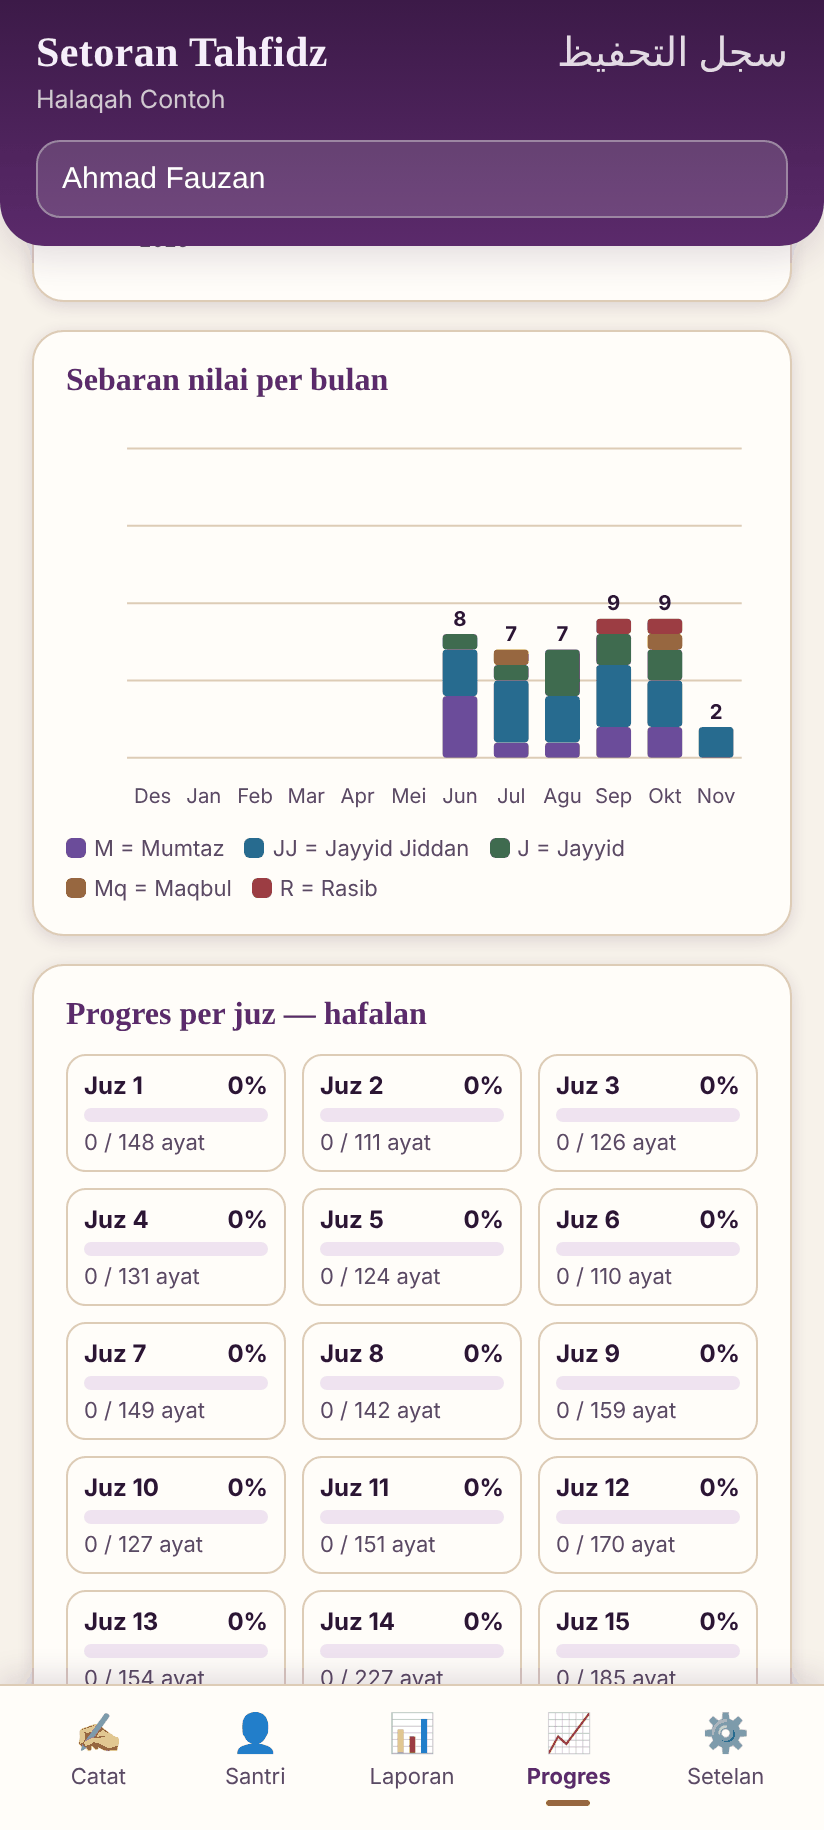
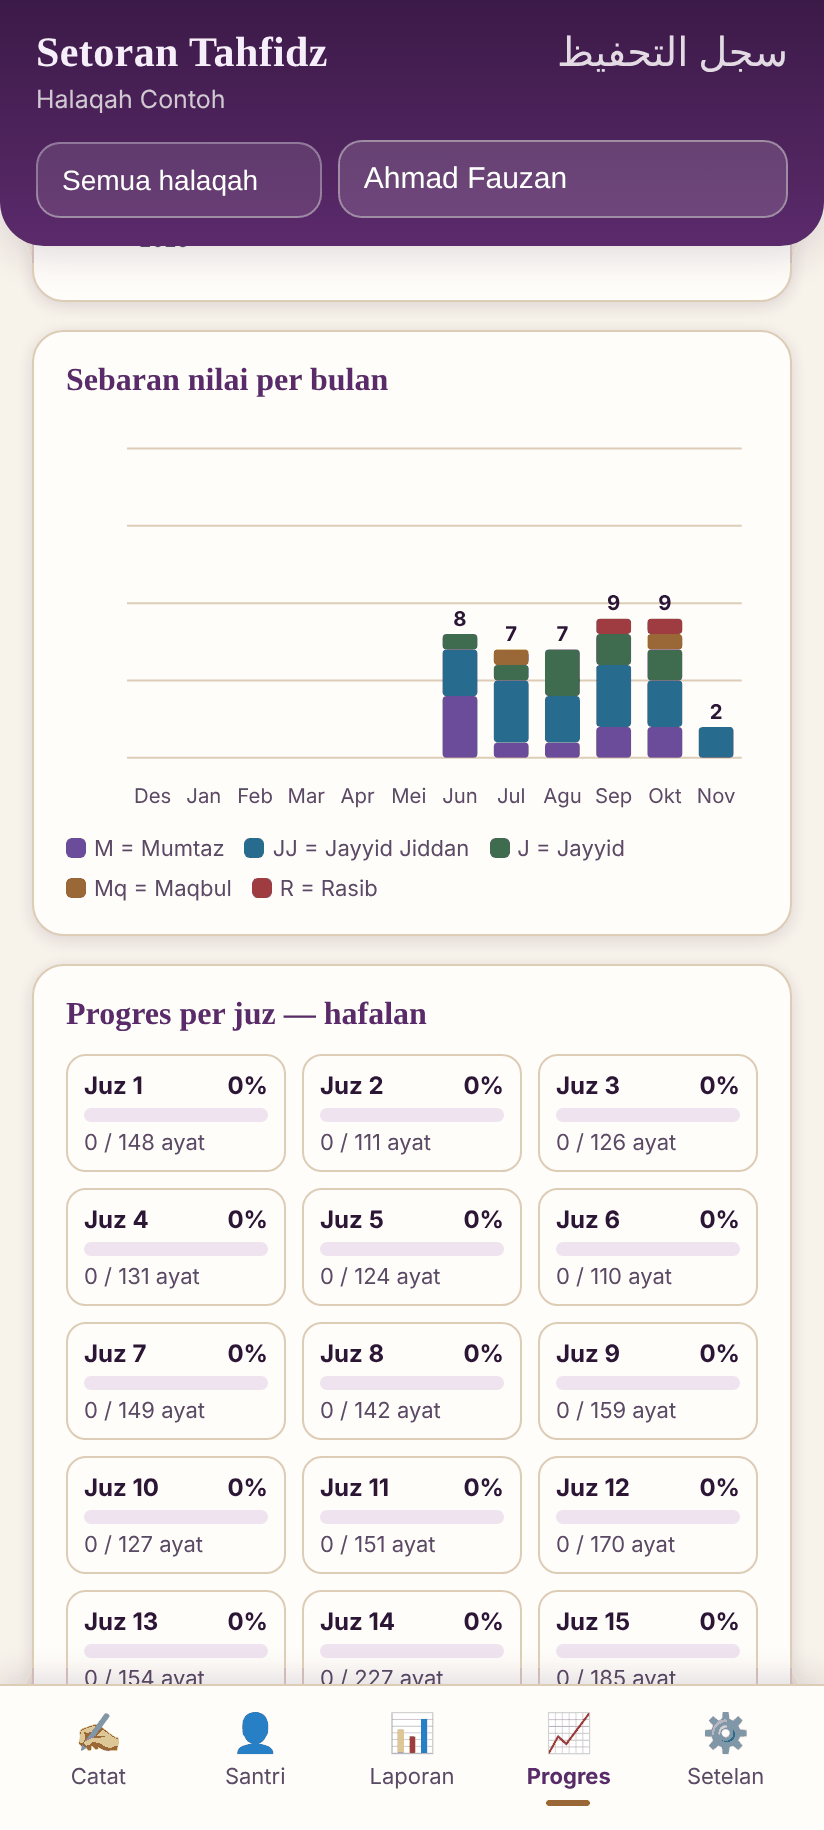
Versi 1.3.0 (130), README dan tangkapan layar diperbarui
Claude-Session: https://claude.ai/code/session_014gCVuLcPiL3Dco5abXn4Uk

Changed region(s): [[0.091, 0.0623, 0.3337, 0.1246], [0.4551, 0.0934, 0.6978, 0.1246], [0.3641, 0.0623, 0.4248, 0.1246]]

diff --git a/README.md b/README.md
@@ -19,7 +19,7 @@ Semua nama dan catatan pada gambar ini fiktif.
 
 | Santri | Setelan | Laporan bulanan (gambar) | Rapor progres (gambar) |
 | :---: | :---: | :---: | :---: |
-| <img src="docs/screenshots/santri.png" alt="Halaman Santri: daftar santri" width="200"> | <img src="docs/screenshots/setelan.png" alt="Halaman Setelan: tampilan, lembaga, dan laporan" width="200"> | <img src="docs/screenshots/laporan-gambar.png" alt="Contoh gambar laporan bulanan yang diunduh" width="230"> | <img src="docs/screenshots/rapor-progres.png" alt="Contoh rapor progres satu halaman yang diunduh" width="230"> |
+| <img src="docs/screenshots/santri.png" alt="Halaman Santri: daftar santri dikelompokkan per halaqah" width="200"> | <img src="docs/screenshots/setelan.png" alt="Halaman Setelan: tampilan, lembaga, dan laporan" width="200"> | <img src="docs/screenshots/laporan-gambar.png" alt="Contoh gambar laporan bulanan yang diunduh" width="230"> | <img src="docs/screenshots/rapor-progres.png" alt="Contoh rapor progres satu halaman yang diunduh" width="230"> |
 
 ## Fitur
 
@@ -54,13 +54,18 @@ Semua nama dan catatan pada gambar ini fiktif.
 - Bisa dilihat untuk Tahsin, Tahfidz, atau Murojaah.
 - **Unduh Progres** membuat rapor satu halaman untuk wali santri: total hafalan, perbandingan bulan ini dengan bulan lalu, kehadiran, diagram 6 bulan, peta 30 juz, hafalan terakhir, rekap nilai, dan catatan tahsin terakhir.
 
+**Kelompok halaqah**
+- Santri bisa diberi halaqah (mis. Pagi, Sore, Kelas A). Boleh dikosongkan.
+- Daftar santri dikelompokkan per halaqah, dan di bagian atas aplikasi ada pilihan halaqah untuk menyaring santri.
+- Nama halaqah ikut tercantum di laporan bulanan dan rapor progres.
+
 **Setelan dan data**
 - Mode terang, gelap, atau otomatis; lima warna tema; empat ukuran teks; halaman awal saat aplikasi dibuka.
 - Ekspor dan impor cadangan data (file JSON), plus pengingat cadangan berkala.
 
 ## Cara pakai singkat
 
-1. **Tab Santri:** tambahkan nama santri.
+1. **Tab Santri:** tambahkan nama santri, dan halaqahnya bila perlu. Ketuk ✏ untuk mengubah nama atau halaqah.
 2. **Tab Catat:** pilih santri dan tanggal, isi rentang ayat untuk tahsin, tahfidz, atau murojaah, beri nilai bila perlu, lalu ketuk **Simpan Setoran**.
 3. **Tab Laporan:** lihat rekap bulanan. Ketuk **Unduh Laporan (Gambar)** untuk membuat gambar laporan yang bisa dikirim ke wali santri.
 4. **Tab Progres:** pantau perkembangan hafalan tiap santri. Ketuk **Unduh Progres** untuk menyimpannya sebagai gambar.
@@ -87,7 +92,7 @@ Selengkapnya: [Kebijakan Privasi](PRIVACY_POLICY.md).
 
 - **Pemilik:** Abu Ja'far Putra Arsad, pengajar tahfidz Al-Qur'an
 - **Peran saya:** menentukan fitur dan menguji aplikasi ini. Kode ditulis dengan bantuan AI.
-- **Status:** uji coba. Tersedia sebagai APK debug dan belum dirilis ke Google Play.
+- **Status:** uji coba. Tersedia sebagai APK debug dan belum dirilis ke Google Play. Bahan rilis Play Store sudah disiapkan di [docs/PLAY_STORE.md](docs/PLAY_STORE.md).
 - **Lisensi:** [MIT](LICENSE)
 
 ---
@@ -105,9 +110,12 @@ aplikasi Android dengan [Capacitor](https://capacitorjs.com/).
 
 ```
 www/index.html           # Aplikasi web (HTML + CSS + JS dalam satu file)
-tests/                   # Tes logika rentang ayat, progres, dan nilai (npm test)
+tests/                   # Tes logika rentang ayat, progres, nilai, halaqah (npm test)
+tests/ui/                # Tes tampilan otomatis lewat Chrome/Edge (npm run test:ui)
 docs/screenshots/        # Tangkapan layar untuk README
 docs/PLAY_STORE.md       # Panduan rilis ke Google Play Store
+docs/play-store/         # Ikon, feature graphic, dan screenshot untuk listing Play Store
+docs/privacy-policy.html # Kebijakan privasi versi web (GitHub Pages)
 capacitor.config.json    # Konfigurasi Capacitor (appId, appName, webDir)
 android/                 # Proyek Android native
 assets-src/              # Sumber gambar ikon & splash (generate_icon.py)
@@ -133,10 +141,24 @@ npx serve www
 ### Tes
 
 ```powershell
-npm test
+npm test          # tes logika (cepat, tanpa browser)
+npm run test:ui   # tes tampilan: membuka aplikasi di Chrome/Edge dan memakainya seperti pengguna
 ```
 
-Jalankan sebelum setiap rilis. Semua tes harus lulus.
+Jalankan keduanya sebelum setiap rilis. Semua tes harus lulus.
+
+Tes tampilan tidak butuh paket tambahan. Ia mencari Chrome, Edge, atau
+Chromium yang terpasang (perlu Node.js 22 atau lebih baru), lalu mengetuk
+layar, mengisi rentang ayat, memberi nilai, mengunduh gambar laporan
+(termasuk mengecek nomor tanggalnya), dan menguji ekspor–impor. Bila
+browser tidak ditemukan, tunjukkan lokasinya:
+
+```powershell
+$env:CHROME_PATH = "C:\Program Files (x86)\Microsoft\Edge\Application\msedge.exe"
+npm run test:ui
+```
+
+Tambahkan `$env:SHOW = "1"` untuk melihat jendela browser saat tes berjalan.
 
 ### Membuat Debug APK
 
@@ -158,8 +180,10 @@ agar perubahannya disalin ke `android/app/src/main/assets/public`.
 
 ### Alur rilis
 
-1. Naikkan versi di `android/app/build.gradle`. Polanya: `versionName "1.2.0"` → `versionCode 120`.
-2. Jalankan `npm test`, lalu build APK seperti di atas.
+1. Naikkan versi di `android/app/build.gradle`. Polanya: `versionName "1.3.0"` → `versionCode 130`.
+2. Jalankan `npm test` dan `npm run test:ui`, lalu build APK seperti di atas
+   **di PC yang biasa dipakai**, supaya APK ditandatangani dengan
+   `debug.keystore` yang sama (lihat [release-signing/README.md](release-signing/README.md)).
 3. Buat GitHub Release dengan tag `vX.Y.Z-debug` dari `main`, unggah APK
    bernama `setoran-tahfidz-vX.Y.Z-debug.apk`, dan tandai sebagai
    **Latest release** agar tautan unduh di atas ikut berpindah.
